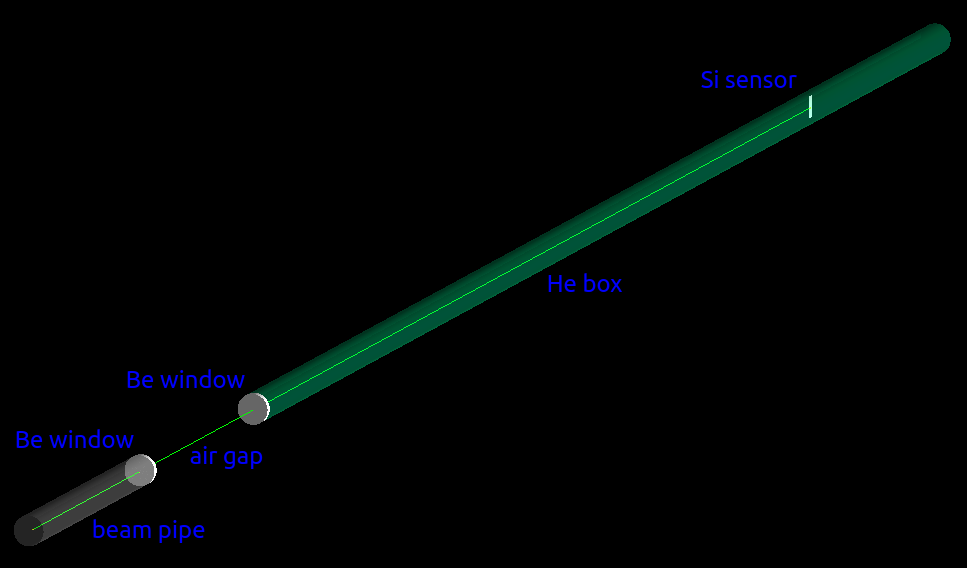
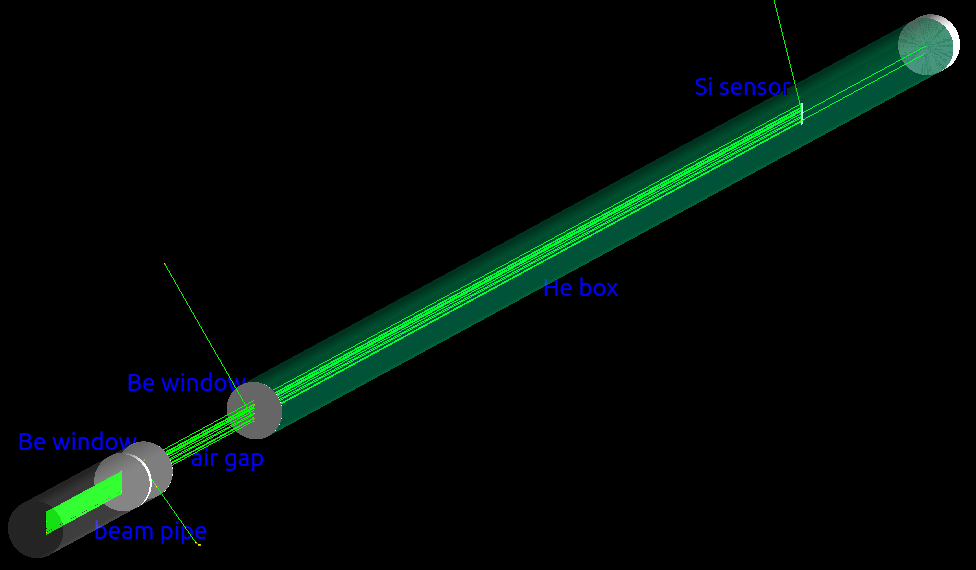
increased pipe/envelope/bulk diameter to 16 mm; added some notes; updated picture to one with the new pipe diameter, 100 events and some scattering

Changed region(s): [[0.0, 0.0299, 0.9928, 0.9877]]

diff --git a/src/B1DetectorConstruction.cc b/src/B1DetectorConstruction.cc
@@ -91,7 +91,8 @@ G4VPhysicalVolume* B1DetectorConstruction::Construct() {
 	//G4double air_gap_dimension = 1.*cm; // enhancement; HER=8741/775/392 LER=21459/1640/1163
 //	G4double neck_dimension_of_box = 50.*mm + 108.*mm;
 	G4double position_of_vacuum = 0. - vacuum_dimension/2. - Be_window_dimension_1 - air_gap_dimension - Be_window_dimension_2;
-	G4double env_diameter = 8.5*mm;
+	//G4double hypotenuse = sqrt(6.9**2.+14.**2.); // 15.61
+	G4double env_diameter = 16.*mm;
 	#ifdef REAL_XRM_SITUATION
 	G4double inside_dimension_of_box = 614.*mm;
 	G4double position_of_Be_window_1 = 0. - Be_window_dimension_1/2. - air_gap_dimension - Be_window_dimension_2;
@@ -112,7 +113,7 @@ G4VPhysicalVolume* B1DetectorConstruction::Construct() {
 	G4double position_of_Be_filter = 0. + vacuum_dimension/2. - 2.*cm; // downstream of bulk_si reference
 
 	// World
-	G4double world_sizeXY = 1.2*env_diameter;
+	G4double world_sizeXY = 5.0*env_diameter;
 	G4double world_sizeZ  = 2.*650.*mm;
 	G4Material* world_mat = nist->FindOrBuildMaterial("G4_AIR");
 	G4Box* solidWorld = new G4Box("World",                       //its name

diff --git a/README.md b/README.md
@@ -30,6 +30,11 @@ to run a geant4 executable (from build/ subdir):
 cd build; ./edge_on
 ```
 
+to run 100 events in the visualization:
+```
+/run/beamOn 100
+```
+
 to run a pyroot program:
 
 ```
